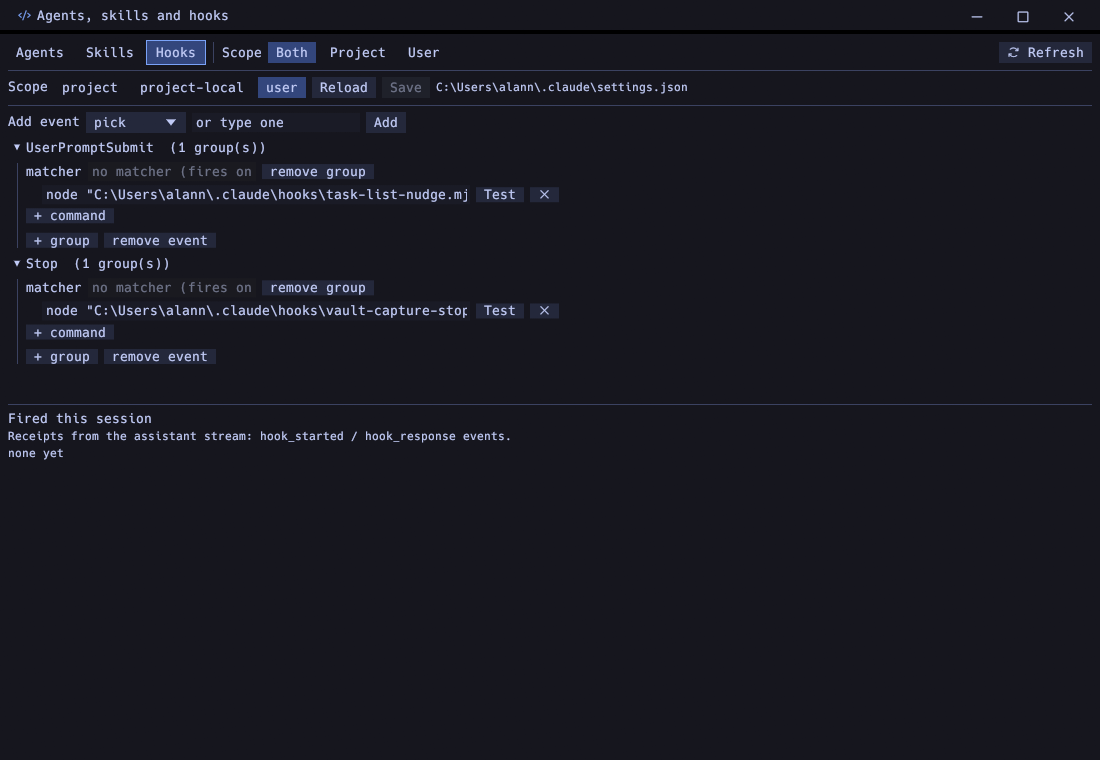
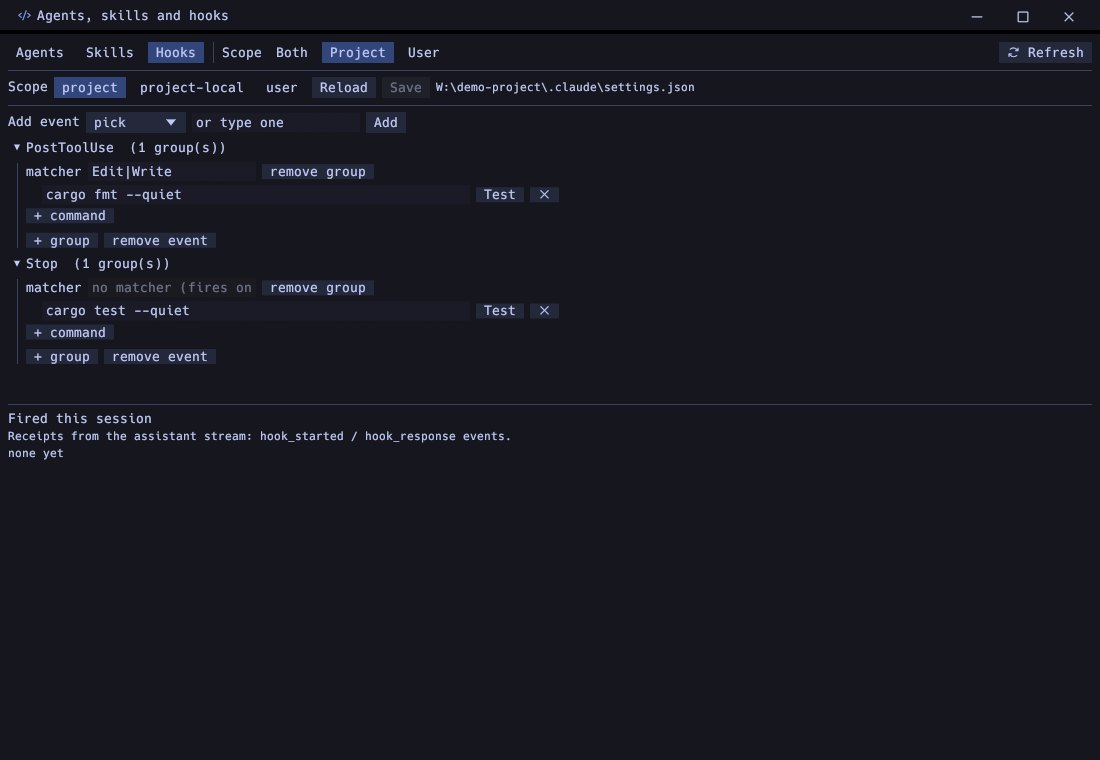
Retake screenshots against a sample project
Every screenshot was taken against the author's real machine, so the folder
tree listed dozens of private project names, the hooks editor showed the user
name in four absolute paths, and the agents window listed a personal agent
library. None of that belongs in a public repository.

All eight are retaken against a small sample project on a drive mapped for the
purpose, so the tree shows only that project and the other drives stay
collapsed. The agents and hooks windows are shown in project scope, which
reads the sample project's own .claude directory. The PNGs carry no text or
EXIF chunks.

Also links the editor and find screenshots, which were committed but never
referenced, notes the 64 KiB syntax highlighting cap, and ignores the .code
directory the app writes into whatever project is open.

diff --git a/README.md b/README.md
@@ -20,12 +20,23 @@ syntax highlighting, completion, hover documentation and live diagnostics from
 any language server on your machine. Completion triggers on `.`, `::`, after
 two identifier characters, or Ctrl+Space.
 
+![Editor tab with the folder tree alongside](docs/screenshots/ide.png)
+
+Files over 64 KiB open without syntax colouring and say so in the toolbar.
+Colouring costs about a second per 250 KB and reruns on every edit, which made
+large files unusable; plain layout of the same text is far cheaper.
+
 ![Editor with completion from rust-analyzer](docs/screenshots/completion.png)
 
 Servers are configured per file extension in Settings, with rust-analyzer,
 typescript-language-server, pyright, gopls, clangd and others as defaults. One
 that is not installed is silent: the editor still works, and Settings marks it
 as not found.
+
+Ctrl+F finds in the open file and Ctrl+H replaces, with every match highlighted
+and the current one picked out. Ctrl+G jumps to a line.
+
+![Find in the open file](docs/screenshots/find.png)
 
 **Markdown preview**, and HTML opens in your browser. JSON has a formatter on
 Ctrl+Shift+F, runs on save, and gets syntax error underlines with no server
@@ -102,7 +113,8 @@ plain text.
 ## Themes
 
 System, light, dark, and Omarchy, which is the Tokyo Night palette in
-monospace with flat edges. The screenshots above are Omarchy.
+monospace with flat edges. The screenshots above are Omarchy, taken against a
+small sample project rather than a real one.
 
 ## Building
 
